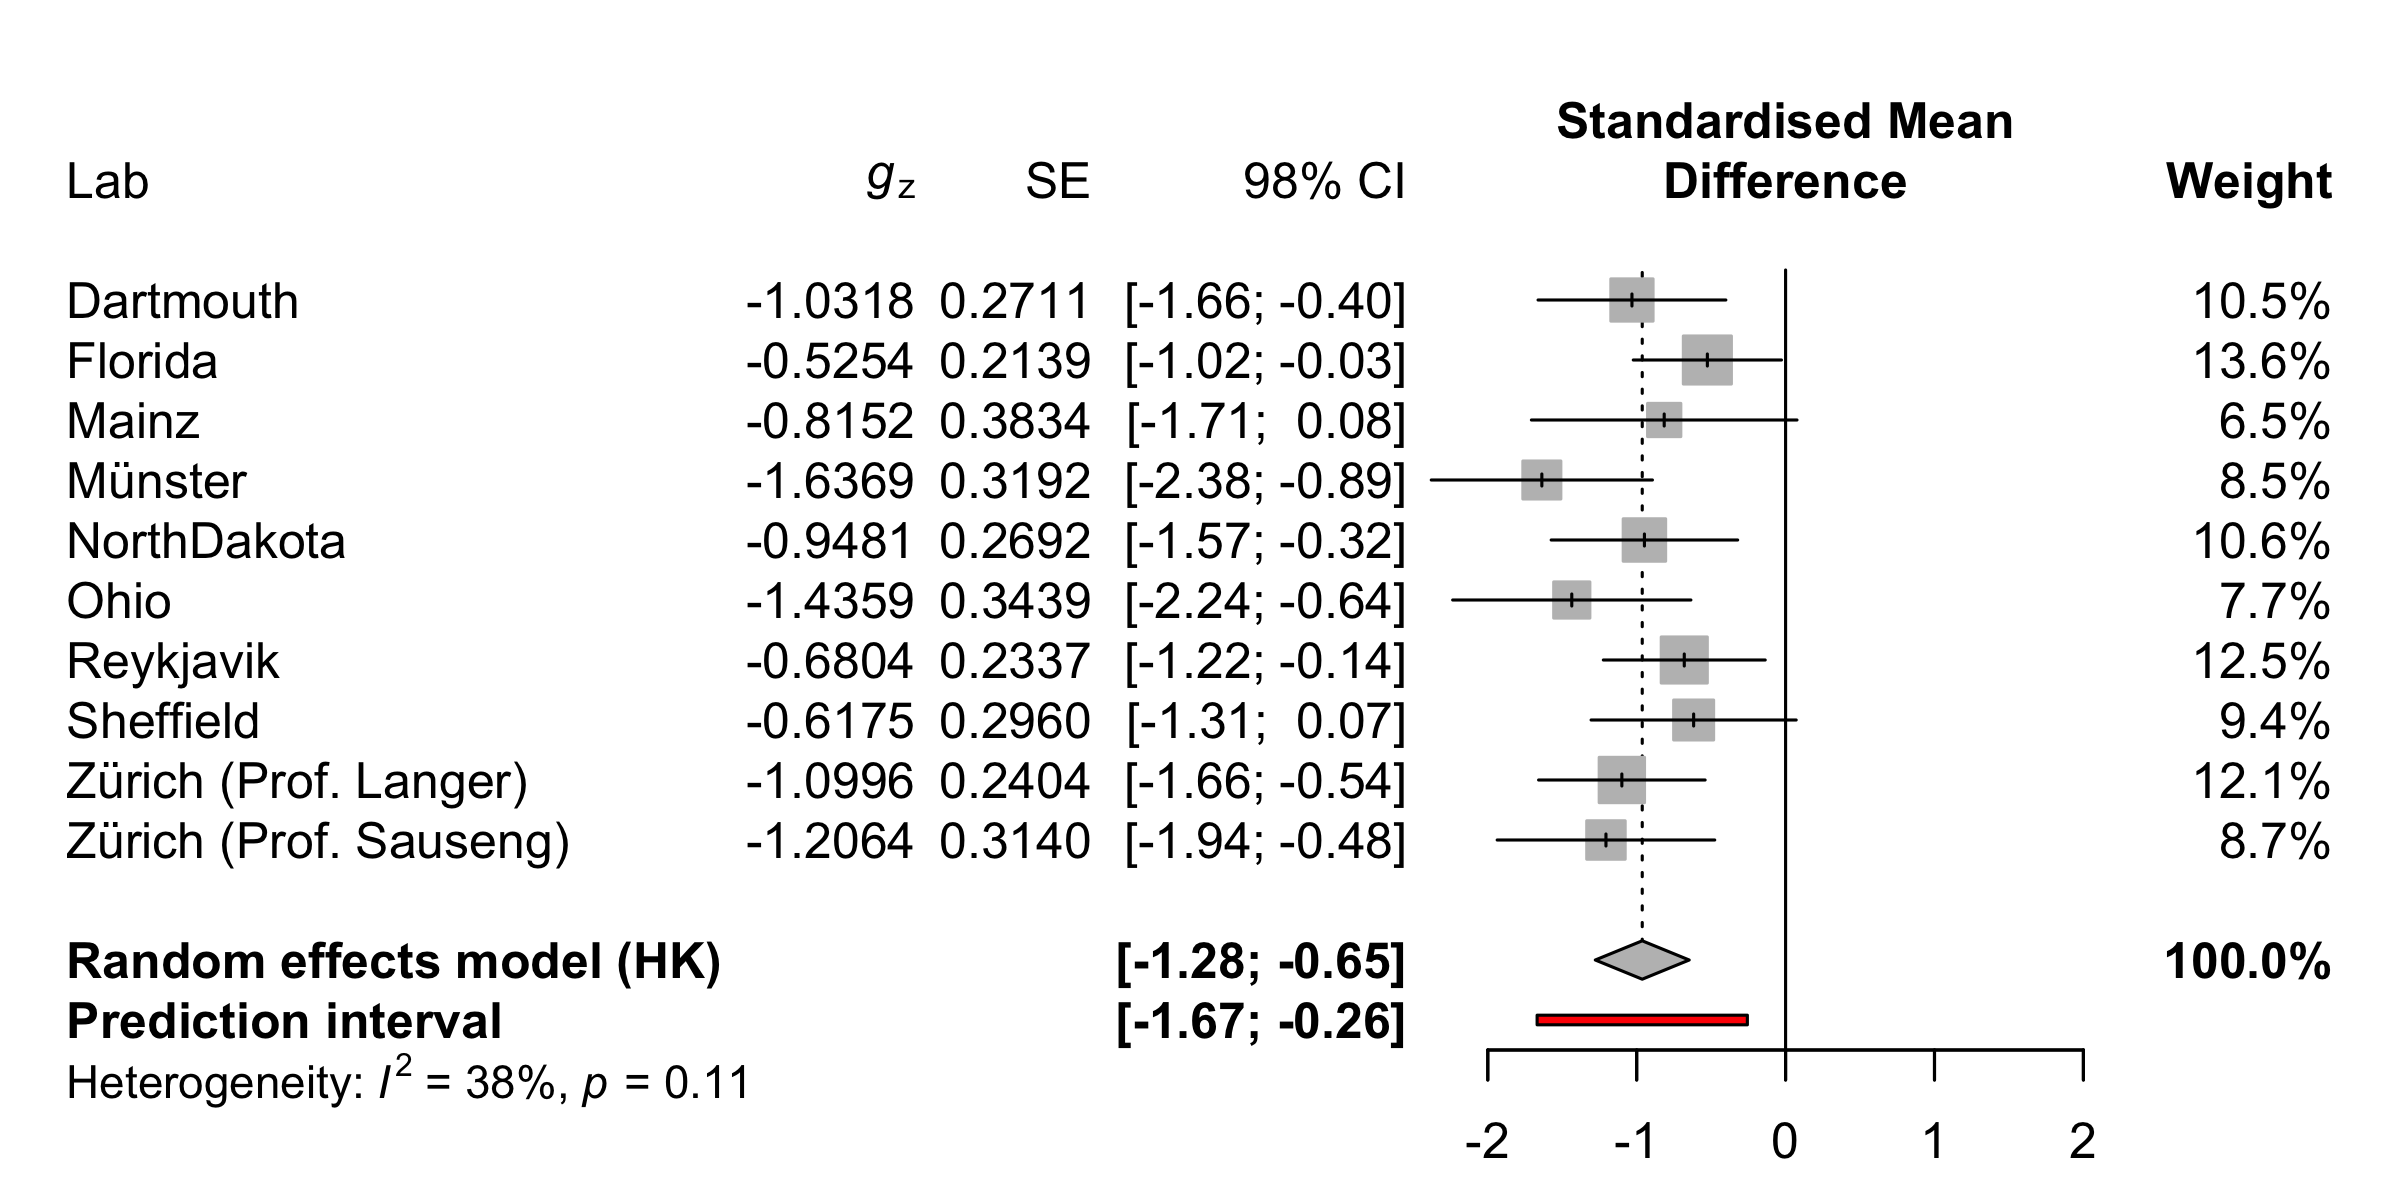
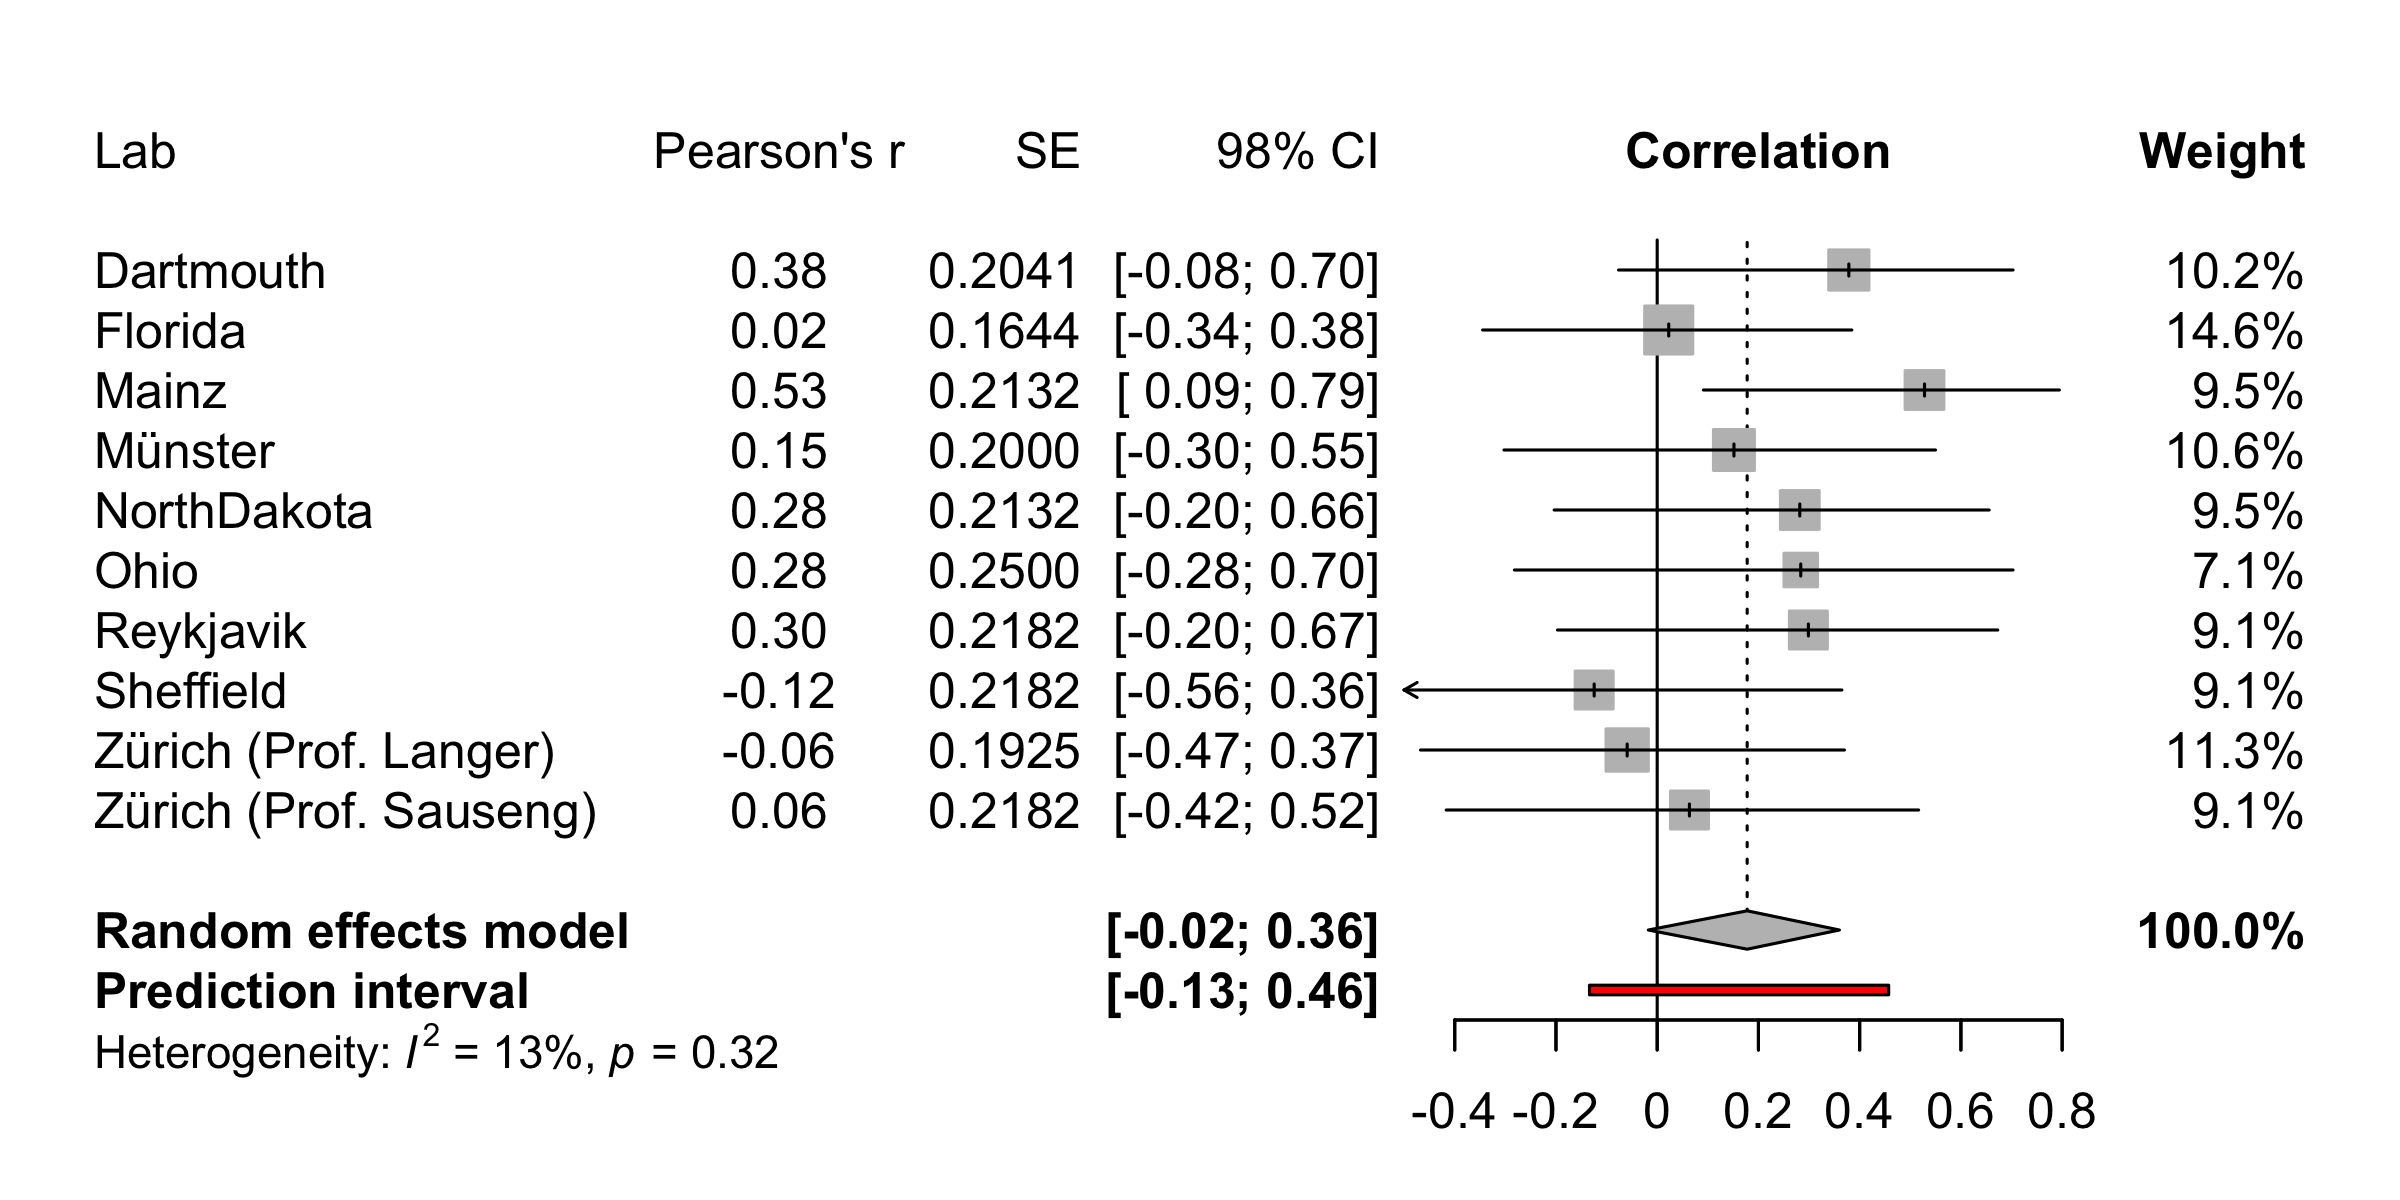
eq for H2.1.

diff --git a/scripts/a6_plots.m b/scripts/a6_plots.m
@@ -17,7 +17,7 @@ pipelines = {preprocessedDirect, preprocessedAdvanced, preprocessedICA, preproce
 tabs = {'cda_table_direct', 'cda_table_advanced', 'cda_table_ica', 'cda_table_ica_keepall'};
 pipes_labels = {'direct', 'advanced', 'ica', 'keep_all'};
 
-for pip = 3 : 3% length(pipelines)
+for pip = 1 : 3% length(pipelines)
 
     % load data
     load(fullfile(datapath, 'mat_files', strcat(tabs{pip}, '.mat')))
@@ -66,10 +66,10 @@ for pip = 3 : 3% length(pipelines)
     % compute amplitude increase from 2 to 4 items and memory capacity
     ampIncrease_2_to_4 = meanROI4 - meanROI2;
     memoryCapacity = (clean_tab.K2 + clean_tab.K4 + clean_tab.K6) / 3; % average over all setsizes
-    % 95% confidence interval
-    ciCDA2 = 1.96 * (nanstd(meanROI2) / sqrt(size(meanROI2, 1))); % 95% CI
-    ciCDA4 = 1.96 * (nanstd(meanROI4) / sqrt(size(meanROI4, 1))); % 95% CI
-    ciCDA6 = 1.96 * (nanstd(meanROI6) / sqrt(size(meanROI6, 1))); % 95% CI
+    % 98% confidence interval
+    ciCDA2 = 2.326 * (nanstd(meanROI2) / sqrt(size(meanROI2, 1))); % 95% CI
+    ciCDA4 = 2.326 * (nanstd(meanROI4) / sqrt(size(meanROI4, 1))); % 95% CI
+    ciCDA6 = 2.326 * (nanstd(meanROI6) / sqrt(size(meanROI6, 1))); % 95% CI
 
 
     % filter used only for visualization
@@ -138,6 +138,9 @@ for pip = 3 : 3% length(pipelines)
     box on
     text(-0.25, 1.15, 'D' ,'FontSize', 20, 'Units', 'normalized')
     f1.Position = [10 10 420*2 420*2];
+
+    % print out the correlation
+    [rho, pval] = corr(memoryCapacity, ampIncrease_2_to_4)
 
 end
 
